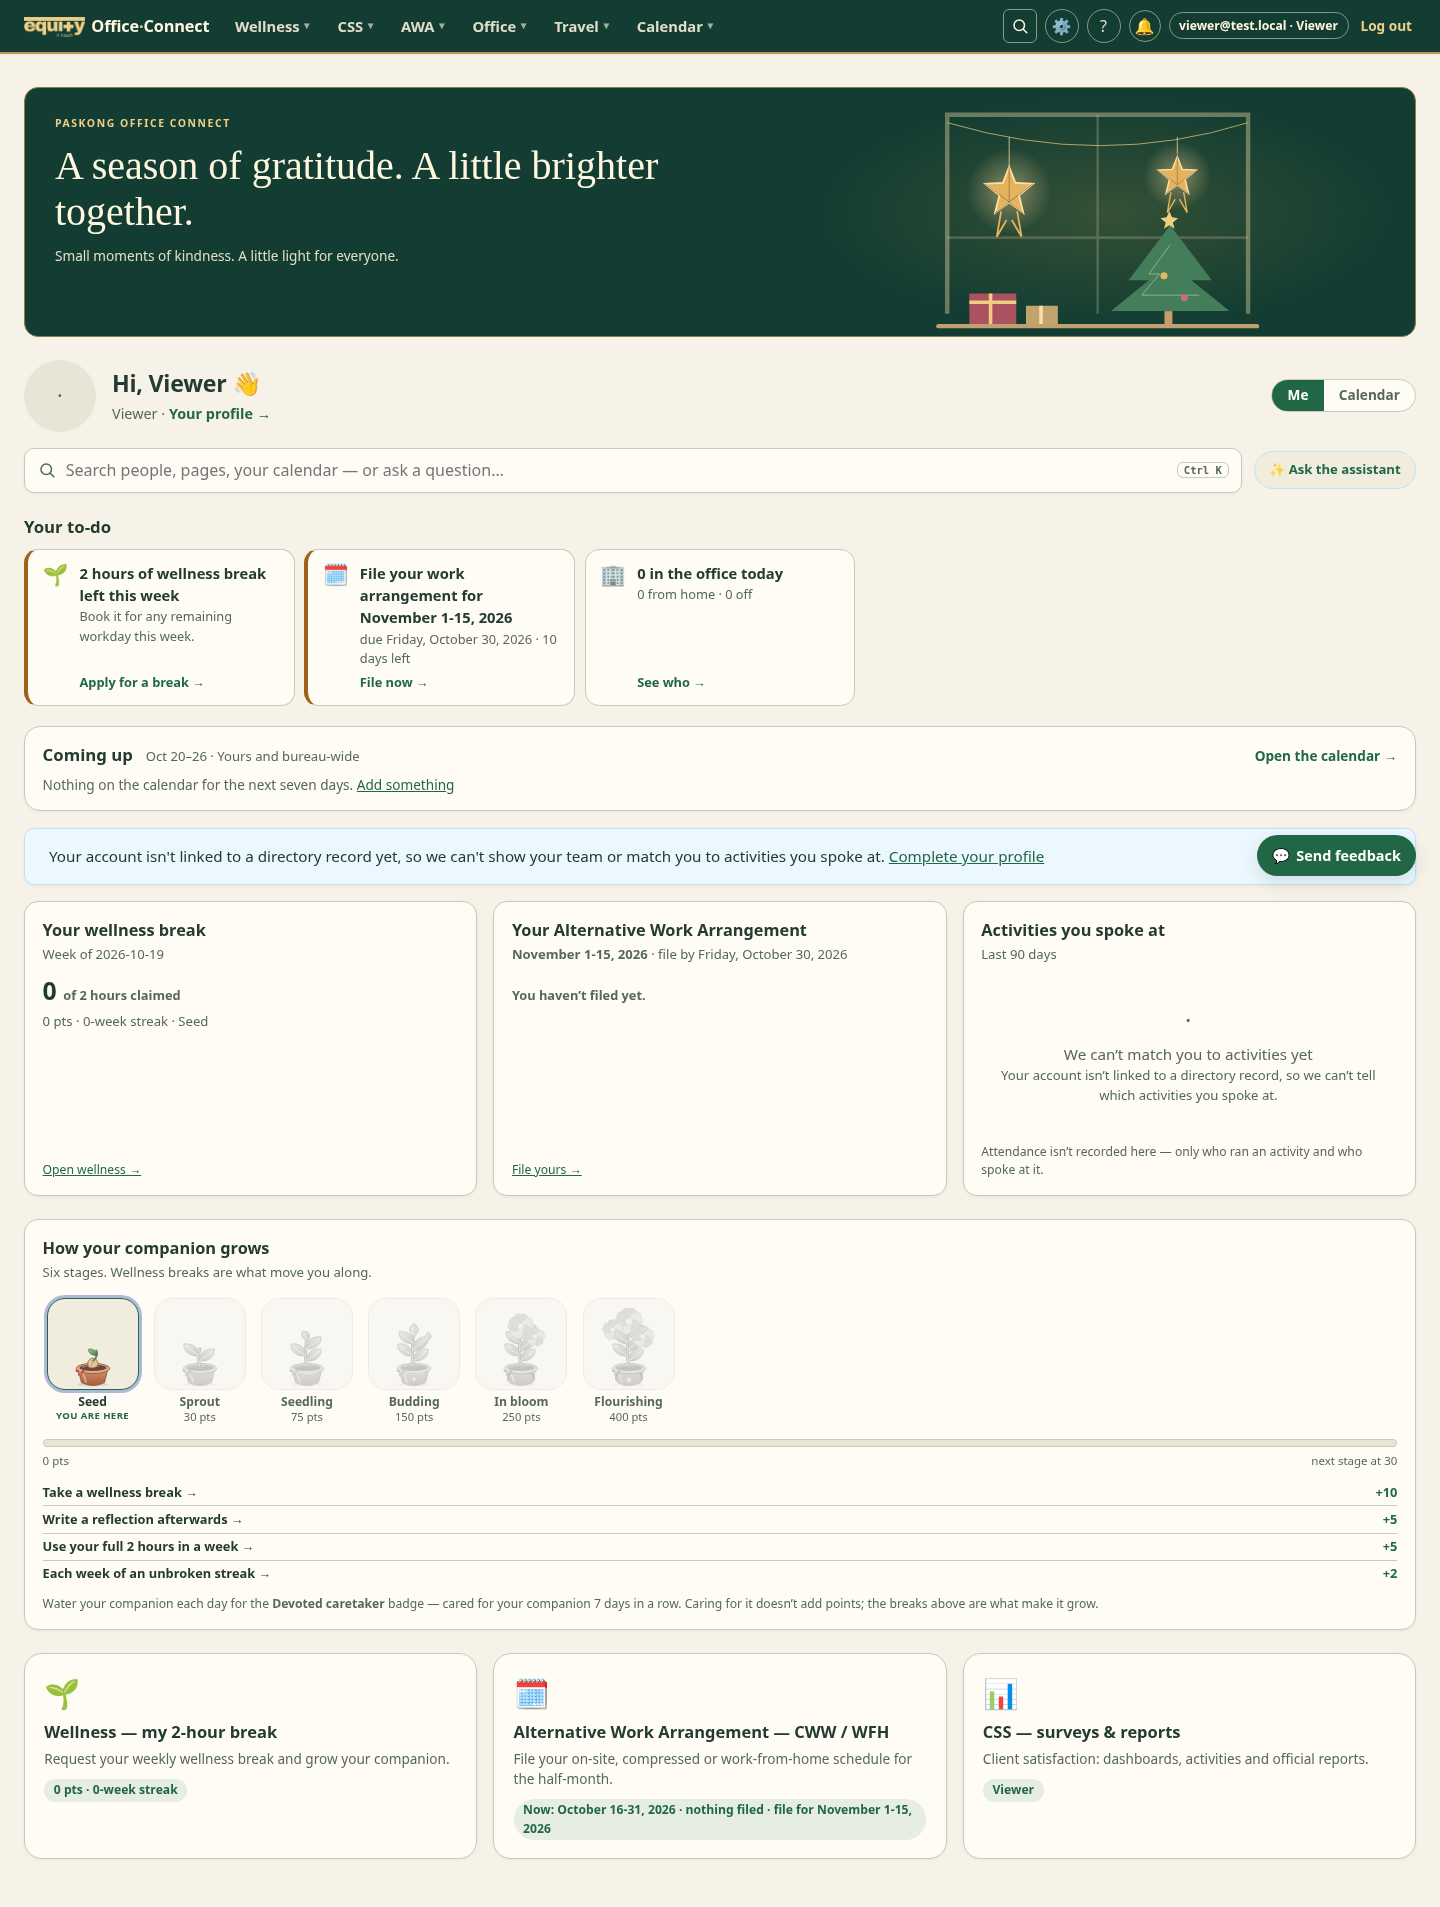
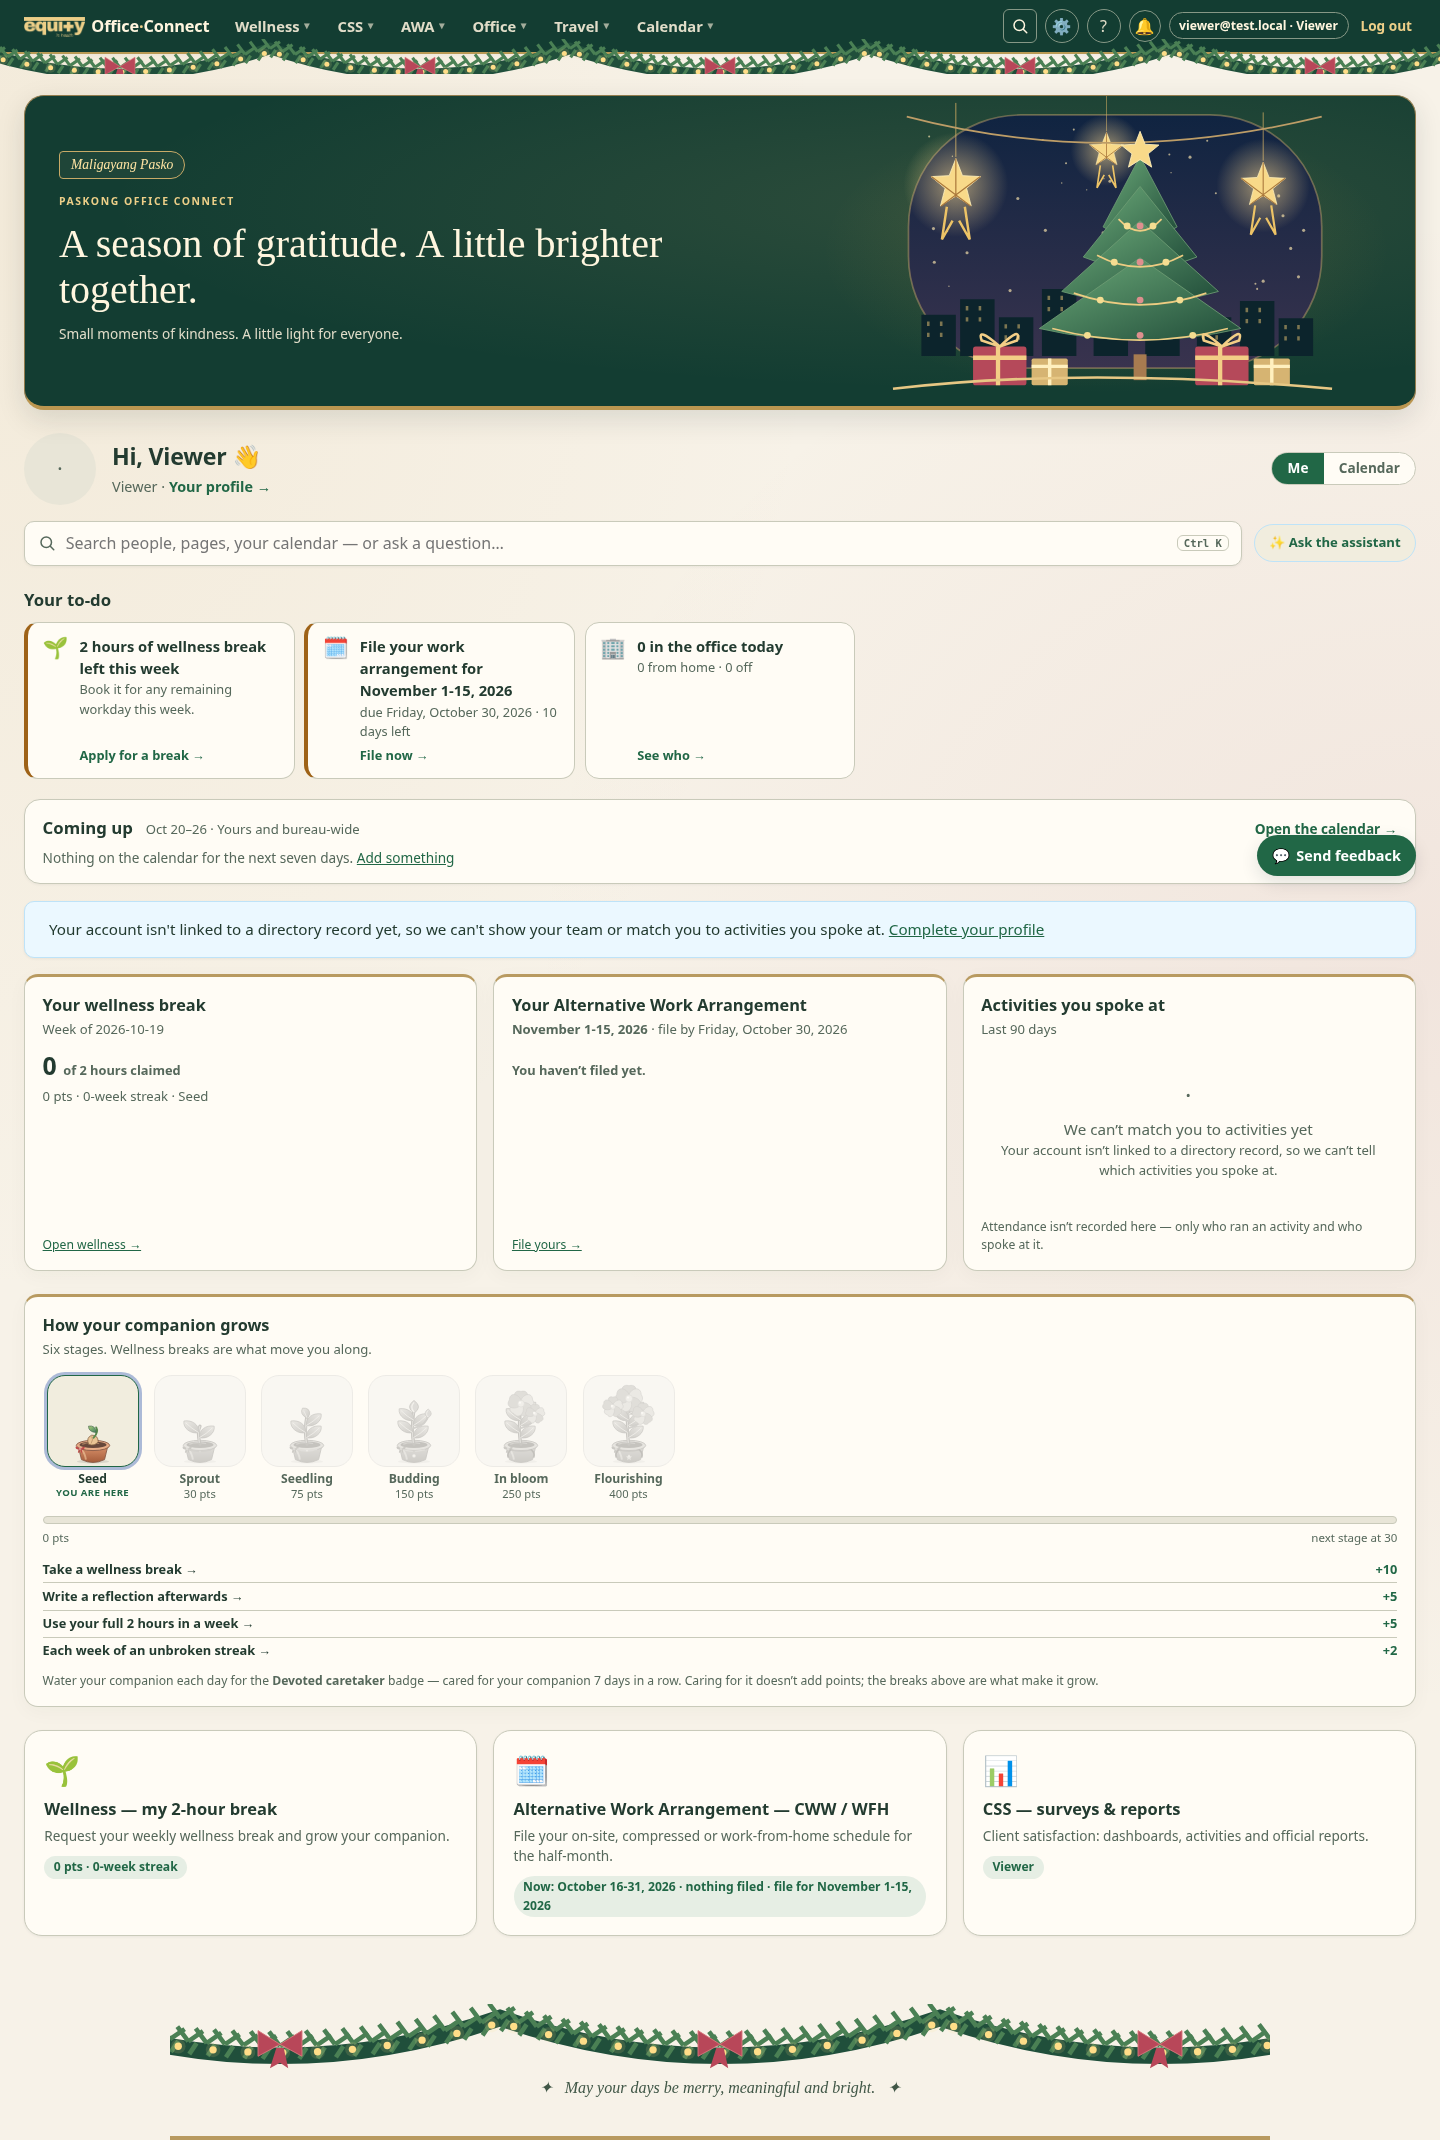
design: enrich seasonal scenes with garlands fireworks and phone artwork

diff --git a/static/css/seasonal-celebrations.css b/static/css/seasonal-celebrations.css
@@ -12,7 +12,7 @@
 .celebration-copy{padding:12px 18px;position:relative;z-index:1;min-width:0}.celebration-kicker{text-transform:uppercase;font-size:.65rem;font-weight:800;letter-spacing:.15em}.celebration h2{font-size:1rem;margin:.4rem 0;overflow-wrap:anywhere}.celebration p{margin:.4rem 0;font-size:.85rem}.celebration-compact .celebration-copy>p{display:none}
 :is([data-season="christmas"],[data-season="newyear"])[data-season-artwork="1"] .celebration-home{display:grid;grid-template-columns:1.25fr 1fr;background:var(--celebration-night);color:#fff6df;border-color:#927c4d;min-height:250px}
 [data-season-artwork="1"] .celebration-home .celebration-copy{padding:28px 30px}[data-season-artwork="1"] .celebration-home .celebration-kicker{color:#edcf88}[data-season-artwork="1"] .celebration-home h2{font:normal clamp(1.65rem,3vw,2.5rem)/1.15 Georgia,serif;margin:.7rem 0}[data-season-artwork="1"] .celebration-home p{color:#e1ddc9}
-.celebration-art{display:none}[data-season-artwork="1"] .celebration-home .celebration-art{display:block;min-height:220px;background:url('/static/img/seasonal/christmas-parols.svg') center/contain no-repeat,radial-gradient(ellipse,#e9b44729,transparent 65%)}[data-season="newyear"] .celebration-art{background-image:url('/static/img/seasonal/newyear-parols.svg')!important}
+.celebration-art{display:none}[data-season-artwork="1"] .celebration-home .celebration-art{display:block;min-height:220px;background:url('/static/img/seasonal/christmas-parols.svg?v=2') center/contain no-repeat,radial-gradient(ellipse,#e9b44729,transparent 65%)}[data-season="newyear"] .celebration-art{background-image:url('/static/img/seasonal/newyear-parols.svg?v=2')!important}
 [data-season-effects="1"] .celebration-art{animation:parol-glow 5s ease-in-out infinite alternate}@keyframes parol-glow{to{opacity:.7}}
 :is([data-season="christmas"],[data-season="newyear"])[data-season-artwork="1"] .oc-pet-stage{background:radial-gradient(ellipse at 50% 65%,#d5ae5630,transparent 65%);border-bottom:2px solid #b99a55;border-radius:14px}
 [data-season="christmas"] .season-decoration{display:none!important}
@@ -25,3 +25,35 @@
 @media print{.celebration{display:none!important}}
 
 .celebration [hidden]{display:none!important}
+
+/* A fuller celebration: visible artwork on phones, garlands and companion scenery. */
+.celebration-ribbon,.celebration-footer{display:none}
+:is([data-season="christmas"],[data-season="newyear"])[data-season-artwork="1"] .celebration-home .celebration-ribbon{display:inline-block;padding:5px 11px;border:1px solid #c8aa67;border-radius:4px 14px 14px 4px;color:#ffe4a3;background:#fff0b30d;font:italic .85rem Georgia,serif;margin-bottom:15px}
+:is([data-season="christmas"],[data-season="newyear"])[data-season-artwork="1"] body{background-image:radial-gradient(ellipse at 2% 10%,#cda45519,transparent 40%),radial-gradient(ellipse at 100% 45%,#af536815,transparent 45%)}
+:is([data-season="christmas"],[data-season="newyear"])[data-season-artwork="1"] .topnav::after{content:"";position:absolute;inset:auto 0 -22px;height:35px;background:url('/static/img/seasonal/christmas-garland.svg') center top/300px 45px repeat-x;pointer-events:none;z-index:-1}
+[data-season="newyear"][data-season-artwork="1"] .topnav::after{background-image:url('/static/img/seasonal/newyear-bunting.svg')}
+:is([data-season="christmas"],[data-season="newyear"])[data-season-artwork="1"] .celebration-home{margin-top:1.5rem;border-radius:20px;box-shadow:0 9px 28px #162b2520;isolation:isolate;background-image:radial-gradient(ellipse at 70% 35%,#d9b57522,transparent 65%);border-bottom:4px solid #bb9650}
+[data-season-artwork="1"] .celebration-home .celebration-art{min-height:310px;background-size:contain;background-position:center bottom}
+[data-season-artwork="1"] .celebration-home .celebration-copy{align-self:center;padding:30px 34px}
+:is([data-season="christmas"],[data-season="newyear"])[data-season-artwork="1"] body:has(.celebration-home) .oc-card{border-top:3px solid #b89a60;box-shadow:0 5px 20px #173c2a09}
+:is([data-season="christmas"],[data-season="newyear"])[data-season-artwork="1"] .oc-pet-stage{background:url('/static/img/seasonal/christmas-parols.svg?v=2') center bottom/contain no-repeat,radial-gradient(ellipse at center,#edca7750,transparent 70%);min-height:260px;padding-bottom:10px}
+[data-season="newyear"][data-season-artwork="1"] .oc-pet-stage{background-image:url('/static/img/seasonal/newyear-parols.svg?v=2'),radial-gradient(ellipse at center,#ada0e330,transparent 70%)}
+:is([data-season="christmas"],[data-season="newyear"])[data-season-artwork="1"] .oc-pet-stage .oc-pet{position:relative;z-index:1;align-self:center;padding:10px;border-radius:50%;background:radial-gradient(ellipse,var(--surface) 20%,transparent 70%)}
+:is([data-season="christmas"],[data-season="newyear"])[data-season-artwork="1"] .oc-pet-edit{background:var(--surface);border-radius:30px;padding:4px 9px}
+:is([data-season="christmas"],[data-season="newyear"])[data-season-artwork="1"] .celebration-footer{display:block;max-width:1100px;margin:20px auto 0;padding:70px 24px 35px;text-align:center;font:italic 1rem/1.7 Georgia,serif;color:var(--ink-soft);background:url('/static/img/seasonal/christmas-garland.svg') center top/440px 66px repeat-x;border-bottom:4px solid #b89a60}
+[data-season="newyear"][data-season-artwork="1"] .celebration-footer{background-image:url('/static/img/seasonal/newyear-bunting.svg')}
+.celebration-home .newyear-digits>div{background:linear-gradient(140deg,#fff4c315,#fff4c303);box-shadow:inset 0 1px #fff4c329;border-color:#cbb580;min-width:57px}
+.celebration-home .newyear-digits strong{font-size:1.65rem;font-weight:650}.celebration-home .newyear-digits span{letter-spacing:.04em}
+@media(max-width:650px){
+  :is([data-season="christmas"],[data-season="newyear"])[data-season-artwork="1"] .celebration-home{grid-template-columns:1fr;gap:0}
+  [data-season-artwork="1"] .celebration-home .celebration-copy{padding:22px 20px 4px}
+  [data-season-artwork="1"] .celebration-home .celebration-art{display:block!important;min-height:0;height:150px;background-size:auto 180px;background-position:center bottom;margin-top:0}
+  [data-season-artwork="1"] .celebration-home .celebration-ribbon{margin-bottom:12px;font-size:.8rem}
+  .celebration-home .newyear-digits{gap:6px}.celebration-home .newyear-digits>div{min-width:48px;padding:5px 7px}.celebration-home .newyear-digits strong{font-size:1.4rem}
+  [data-season-artwork="1"] .celebration-footer{font-size:.85rem;padding-top:65px}
+}
+@media print{.celebration-footer,.topnav::after{display:none!important}}
+[data-theme="contrast"] .celebration-art,[data-theme="contrast"] .celebration-ribbon,[data-theme="contrast"] .celebration-footer,[data-theme="contrast"] .topnav::after{display:none!important}
+
+:root[data-theme="contrast"][data-season-artwork="1"] .celebration-home .celebration-art{display:none!important}
+.celebration-art{position:relative}.celebration-year{display:none}[data-season="newyear"] .celebration-year{display:block;position:absolute;bottom:2%;left:0;right:0;text-align:center;font:bold clamp(3rem,5vw,5rem)/1 Georgia,serif;letter-spacing:.12em;color:#f3d898;text-shadow:0 2px 12px #132847}

diff --git a/templates/dash_layout.html b/templates/dash_layout.html
@@ -9,8 +9,8 @@
 <script>(function(){try{var d=document.documentElement;var t=localStorage.getItem("theme");if(t!=="dark"&&t!=="light"&&t!=="contrast"){t=window.matchMedia&&window.matchMedia("(prefers-color-scheme:dark)").matches?"dark":"light";}d.setAttribute("data-theme",t);var s=localStorage.getItem("textscale");if(s!=="sm"&&s!=="lg"&&s!=="md"){s="md";}d.setAttribute("data-textscale",s);var dn=localStorage.getItem("density");if(dn!=="compact"&&dn!=="cozy"){dn="cozy";}d.setAttribute("data-density",dn);var ac=localStorage.getItem("accent");if(["blue","teal","violet","emerald","rose","amber"].indexOf(ac)<0){ac="blue";}d.setAttribute("data-accent",ac);}catch(e){}})();</script>
 <link rel="stylesheet" href="/static/css/app.css?v={{ APP_VERSION }}">
 <link rel="stylesheet" href="/static/css/appearance.css?v=3">
-<link rel="stylesheet" href="/static/css/seasonal-celebrations.css?v=1">
-<script src="/static/js/newyear-countdown.js?v=1" defer></script>
+<link rel="stylesheet" href="/static/css/seasonal-celebrations.css?v=2">
+<script src="/static/js/newyear-countdown.js?v=2" defer></script>
 <script src="/static/js/appearance.js?v=4" defer></script>
 <script src="/static/js/accessibility.js?v=7.83" defer></script>
 {% block head %}{% endblock %}
@@ -241,6 +241,7 @@
 {% block crumbs %}{% endblock %}
 {% block content %}{% endblock %}
 </main>
+<div class="celebration-footer" aria-hidden="true"><span class="celebration-christmas">✦ &nbsp; May your days be merry, meaningful and bright. &nbsp; ✦</span><span class="celebration-newyear">✦ &nbsp; New beginnings. Shared hopes. Brighter days. &nbsp; ✦</span></div>
 <div class="halloween-footer" aria-hidden="true"></div>
 {% if u %}
 {# ---- global command palette (Ctrl/⌘-K). One engine, role-aware index. ---- #}

diff --git a/templates/_seasonal_celebrations.html b/templates/_seasonal_celebrations.html
@@ -1,6 +1,7 @@
 {% set celebration_home = request.url.path == '/' %}
 <section class="celebration {{ 'celebration-home' if celebration_home else 'celebration-compact' }}" aria-label="Seasonal greeting">
   <div class="celebration-copy">
+    {% if celebration_home %}<div class="celebration-ribbon" aria-hidden="true"><span class="celebration-christmas">Maligayang Pasko</span><span class="celebration-newyear">Let the celebrations begin</span></div>{% endif %}
     <span class="celebration-kicker celebration-christmas">Paskong Office Connect</span>
     <span class="celebration-kicker celebration-newyear">New Year at Office Connect</span>
     <h2 data-celebration-message>{{ seasonal.banner if seasonal else '' }}</h2>
@@ -18,5 +19,5 @@
     </div>
     {% endif %}
   </div>
-  <div class="celebration-art" aria-hidden="true"></div>
+  <div class="celebration-art" aria-hidden="true"><span class="celebration-year" data-newyear-year>{{ seasonal.target_year if seasonal else 2027 }}</span></div>
 </section>

diff --git a/static/js/newyear-countdown.js b/static/js/newyear-countdown.js
@@ -33,7 +33,7 @@
     active=data.theme==='newyear';
     if(next!==target || !wasActive || !active)previous=null;
     target=next;stamp=server;base=performance.now();
-    clock.querySelector('[data-newyear-year]').textContent=String(data.target_year);
+    document.querySelectorAll('[data-newyear-year]').forEach(function(el){el.textContent=String(data.target_year);});
     if(!active){clock.classList.remove('celebrating');stop();return;}
     tick();
   }

diff --git a/tests/test_seasonal_celebrations.py b/tests/test_seasonal_celebrations.py
@@ -112,6 +112,7 @@ def test_real_seasonal_layouts_and_accessibility_modes(seasonal_browser, admin, 
                     if width in (390, 1440):
                         page.goto('http://testserver/?view=me')
                         page.evaluate('(mode)=>document.documentElement.dataset.theme=mode', mode)
+                        pw.expect(page.locator('.celebration-art')).to_be_visible()
                         page.screenshot(path=str(tmp_path / f'{theme}-{mode}-{width}.png'), full_page=True)
             assert page.locator('.celebration-art').evaluate('(el)=>getComputedStyle(el).animationName') == 'none'
             page.evaluate('document.documentElement.dataset.theme="contrast"')

diff --git a/docs/SEASONAL_THEME_IMPLEMENTATION.md b/docs/SEASONAL_THEME_IMPLEMENTATION.md
@@ -46,6 +46,30 @@ Owner phone acceptance remains pending. See the existing iOS cookie guidance in
 
 ## Implemented
 
+### Richer festive revision
+
+The owner requested more festive designs after opening the initial preview.
+Christmas now has a fuller illustrated tree, hanging parols, ornaments, gifts,
+city silhouettes, evergreen/ribbon garlands and warm lights. New Year has static
+illustrated fireworks, a city skyline, a prominent configured year, gold/lilac
+bunting and framed countdown tiles. Both have decorative Home ribbons, gold card
+edges, a companion setting and a matching festive footer. Phone layouts now retain
+150px of scene artwork rather than hiding it. Working-page greetings stay compact.
+Sound is still deferred; fireworks are illustration, not flashing animation.
+Artwork-off, reduced-motion, contrast and print controls remain in force.
+
+- [Richer Christmas phone](design/seasonal/festive-christmas-phone.png)
+- [Richer New Year desktop](design/seasonal/festive-newyear-desktop.png)
+
+Initial focused appearance/seasonal/preview-bundle run: 19 passed. After the year
+display, cache-key and mobile-visibility refinements, final seasonal group: 13
+passed in 24.63s, zero failures/skips; JUnit gate passed. The latter includes all
+32 enlarged-text layout combinations and checks artwork visibility on phones and
+desktop. Christmas phone and New Year desktop screenshots were visually inspected.
+SVG XML parsing, JavaScript syntax and diff checks passed. No dependencies added.
+Before revision publication the shared preview still contained our original source
+`5f6a18c`; Telegram's current handoff continued to defer preview publication.
+
 - Coordinated Christmas and New Year palettes for light/dark appearance, parol scene
   artwork, a fuller Home greeting and compact greetings on working pages. Existing
   brand, personal companions and outfit preferences are retained. Companion stages

diff --git a/docs/SETUP_STATUS.md b/docs/SETUP_STATUS.md
@@ -75,6 +75,16 @@ access remains necessary in a fresh chat.
 
 ## Next action
 
+**Richer seasonal design revision — November 1, 2026.** Owner requested stronger
+festivities after the first preview. Added fuller Christmas tree/parol/gift artwork,
+garlands, New Year fireworks/skyline/year display and bunting, decorated companion
+settings, gold Home card details and festive footers. Phone hero artwork now stays
+visible. Sound remains deferred; accessibility controls retained. Initial focused
+group 19 passed; final seasonal group after refinements 13 passed, no failures/skips,
+JUnit gate passed. [Screenshots and implementation notes](SEASONAL_THEME_IMPLEMENTATION.md).
+Save the source candidate before updating the shared preview, then verify remote
+source, private visibility, RUNNING and asset/health responses. No production release.
+
 **Seasonal private preview published — November 1, 2026.**
 Owner requested publication. Source `5f6a18c2f5171dc17e6ee7462db2a8e77fe9ac64`
 is RUNNING on the existing private CPU Basic preview; Space commit
